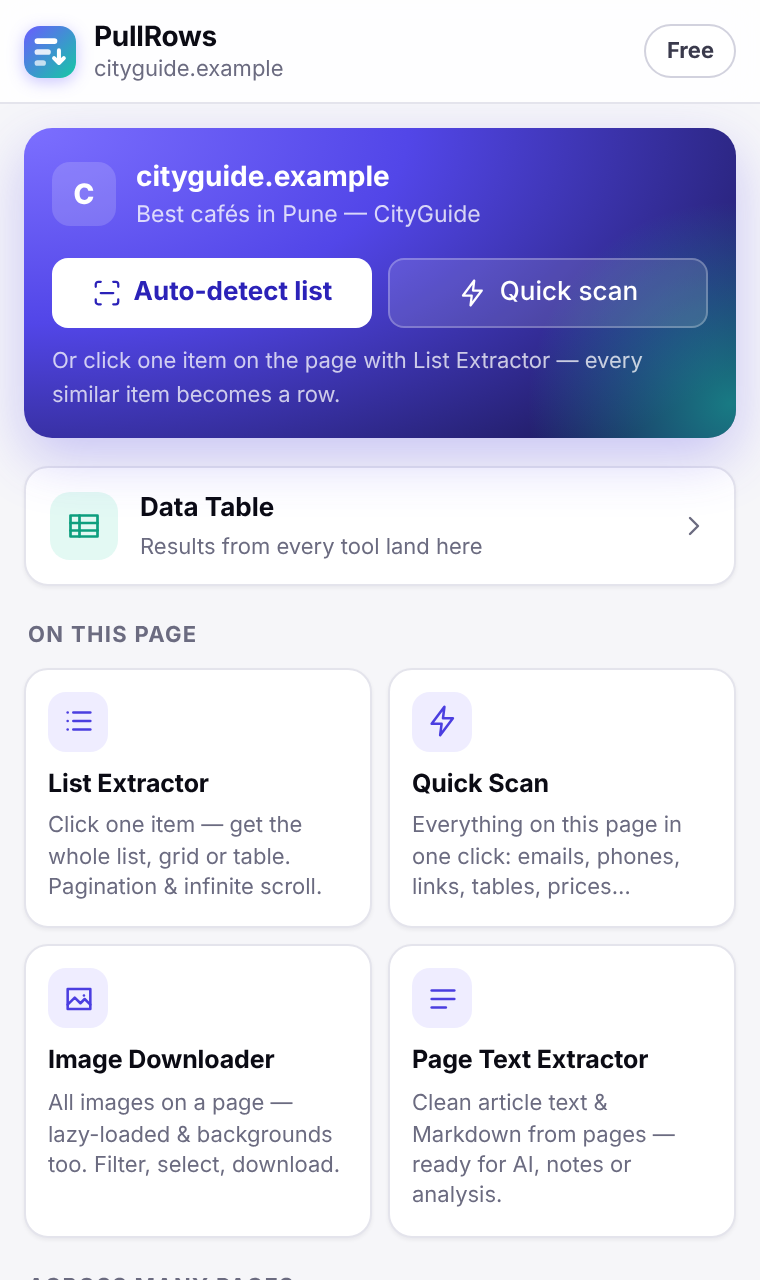
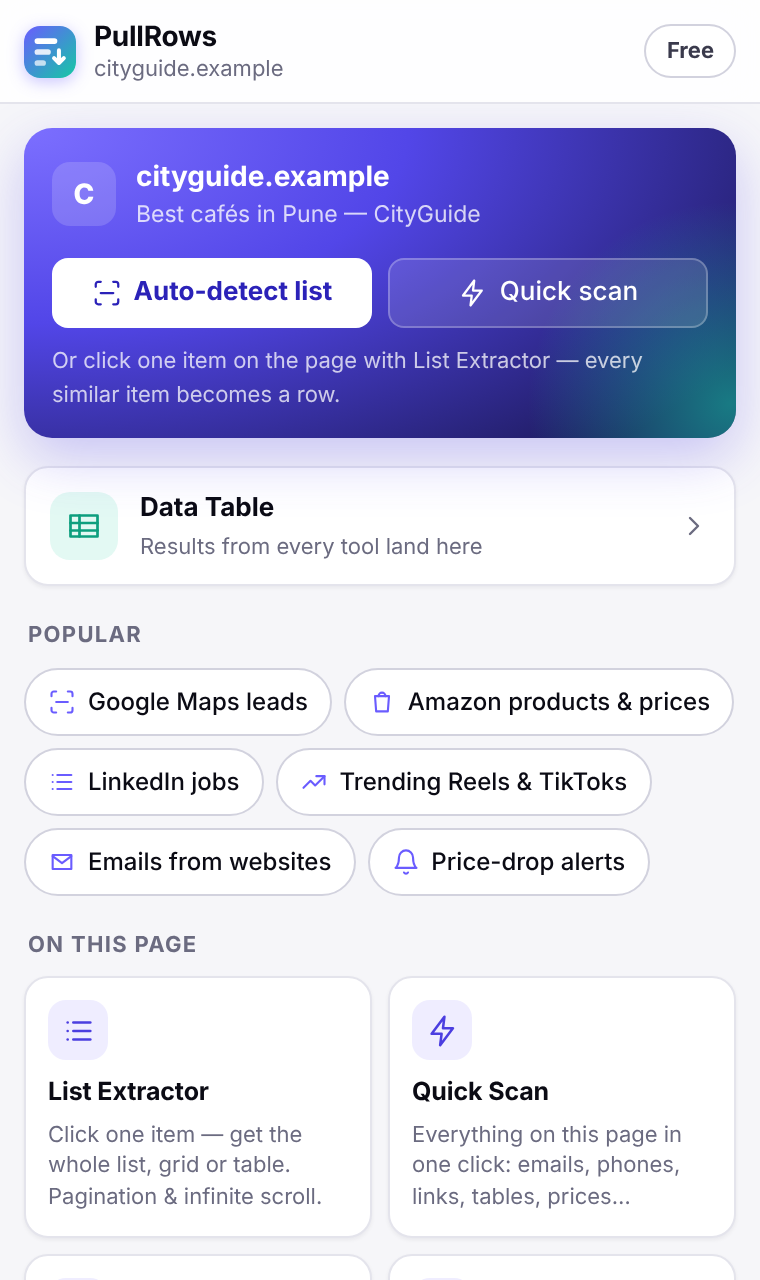
Popular one-tap jobs on the home screen; store listing lists monitors, Sheets, enrichment, chat screenshots
Claude-Session: https://claude.ai/code/session_018Q7rWZnfrrUrQjosjkLTR4

diff --git a/sidepanel/app.js b/sidepanel/app.js
@@ -101,6 +101,29 @@ export function go(id, opts = {}) {
 
 let pageInfo = { host: '', title: '', url: '' };
 
+// The jobs people use scrapers for most, one tap each. Site searches open in the current tab and
+// then auto-detect the list (the site presets name the columns).
+const POPULAR = [
+  { label: 'Google Maps leads', icon: 'scan', ask: 'What and where?', example: 'dentists in Austin', url: (q) => `https://www.google.com/maps/search/${encodeURIComponent(q)}` },
+  { label: 'Amazon products & prices', icon: 'bag', ask: 'Search Amazon for', example: 'wireless earbuds', url: (q) => `https://www.amazon.com/s?k=${encodeURIComponent(q)}` },
+  { label: 'LinkedIn jobs', icon: 'list', ask: 'Job title and place', example: 'product designer remote', url: (q) => `https://www.linkedin.com/jobs/search/?keywords=${encodeURIComponent(q)}` },
+  { label: 'Trending Reels & TikToks', icon: 'trend', go: 'trends' },
+  { label: 'Emails from websites', icon: 'mail', go: 'email' },
+  { label: 'Price-drop alerts', icon: 'bell', go: 'monitors' },
+];
+
+async function startPopular(p) {
+  if (p.go) { go(p.go); return; }
+  const { formDialog } = await import('./ui.js');
+  const res = await formDialog({ title: p.label, fields: [{ name: 'q', label: p.ask, placeholder: `e.g. ${p.example}` }], submit: 'Open & extract' });
+  if (!res?.q?.trim()) return;
+  const tab = await getActiveTab();
+  toast('Opening the page…', '', true);
+  await navigate(tab.id, p.url(res.q.trim()));
+  await new Promise((r) => setTimeout(r, 1500));
+  go('list', { autoDetect: true });
+}
+
 // One-time, reward-free review request after the user has had a few successful runs.
 const reviewSlot = h('div', { id: 'review-slot' });
 async function renderReview() {
@@ -145,6 +168,8 @@ function renderHome() {
         h('span', { class: 'muted small block ellipsis' }, d ? `${d.title || d.source}` : 'Results from every tool land here')),
       d ? h('span', { class: 'count-pill' }, plural(rows, 'row')) : null,
       h('span', { class: 'chev' }, icon('chevron', { size: 16 }))),
+    h('div', { class: 'section-label' }, 'Popular'),
+    h('div', { class: 'popular' }, POPULAR.map((p) => h('button', { type: 'button', class: 'pop', onclick: () => startPopular(p) }, icon(p.icon, { size: 14 }), p.label))),
     GROUPS.map((g) => [
       h('div', { class: 'section-label' }, g.label),
       h('div', { class: 'tool-grid' }, g.ids.map((id) => toolCard(ALL[id]))),

diff --git a/website/changelog.html b/website/changelog.html
@@ -102,6 +102,7 @@
           <li><strong>Screenshots in the chat</strong>: page tools used through the Claude connector now return a small screenshot, so you see what was scraped right in Claude — on desktop or your phone.</li>
           <li><strong>Ask Claude to watch a page</strong>: new <code>monitor_create</code> and <code>monitors_list</code> tools — “tell me when anything on this page gets cheaper”.</li>
           <li><strong>Google Sheets</strong>: send the Data Table to your own Google Sheet in one click (one-minute setup, no Google sign-in in the extension). Pro auto-syncs monitor changes.</li>
+          <li><strong>Popular jobs in one tap</strong> on the home screen: Google Maps leads, Amazon products and prices, LinkedIn jobs, trending Reels and TikToks, emails from websites, price-drop alerts.</li>
           <li><strong>AI enrichment</strong> (Pro): add industry, company size, B2B/B2C and a 0–100 lead score with the reason, or sentiment, summaries, name splitting and translation — one click on any table.</li>
         </ul>
       </div>

diff --git a/sidepanel/sidepanel.css b/sidepanel/sidepanel.css
@@ -397,3 +397,9 @@ tbody tr:nth-child(even) { background: color-mix(in srgb, var(--surface-2) 45%, 
 .connect-steps li::before { content: counter(cs); grid-row: span 3; width: 20px; height: 20px; border-radius: 50%; display: grid; place-items: center; background: var(--accent); color: #fff; font-size: 11px; font-weight: 700; }
 .connect-steps li > * { grid-column: 2; }
 .connect-steps code { font-size: 10.5px; }
+
+/* Popular one-tap jobs on the home screen */
+.popular { display: flex; flex-wrap: wrap; gap: 6px; }
+.pop { display: inline-flex; align-items: center; gap: 6px; padding: 7px 11px; border: 1px solid var(--border-strong); border-radius: 999px; background: var(--surface); color: var(--text, inherit); font: inherit; font-size: 12px; font-weight: 550; cursor: pointer; transition: border-color .15s, background .15s; }
+.pop:hover { border-color: var(--accent); background: var(--accent-soft); color: var(--accent-ink); }
+.pop .ico { color: var(--accent); }

diff --git a/onboarding/welcome.html b/onboarding/welcome.html
@@ -46,7 +46,11 @@
       </article>
       <article>
         <h3>Your data stays here</h3>
-        <p>Results live in this browser. No account, no analytics. Nothing leaves your machine unless you turn on AI or the Claude connector.</p>
+        <p>Results live in this browser. No account, no analytics. Nothing leaves your machine unless you turn on AI, Google Sheets or the Claude connector.</p>
+      </article>
+      <article>
+        <h3>Price-drop alerts</h3>
+        <p>Save a recipe, click Monitor, and PullRows re-checks the page on a schedule and tells you what got cheaper or what’s new.</p>
       </article>
       <article>
         <h3>Let Claude drive it</h3>

diff --git a/store/STORE_FORM.md b/store/STORE_FORM.md
@@ -14,7 +14,7 @@ Every image named below is in this kit's `images/` folder.
 | Field | Paste this |
 |---|---|
 | Title | *(read from the manifest)* PullRows – Web Scraper & Data Extractor |
-| Summary | *(read from the manifest)* Turn any website into rows: lists, pages, emails, socials, images, Shopify, sitemaps. Export CSV/Excel. Works with Claude. |
+| Summary | *(read from the manifest)* Scrape any site into rows: lists, Maps leads, emails, prices, reels. Price-drop alerts, Sheets & Excel export. Works with Claude. |
 | Category | **Tools** |
 | Language | **English** |
 | Store icon | `images/icon-128.png` |
@@ -57,15 +57,24 @@ ELEVEN TOOLS IN ONE PANEL
 AN EDITABLE DATA TABLE
 Rename, sort, edit, merge columns, dedupe and clean. You can add an AI column ("classify the industry") or ask questions about the data. Export to CSV or copy to any spreadsheet; Excel and JSON export are part of Pro. Save any setup as a recipe and re-run it in one click.
 
+WATCH PAGES: PRICE-DROP AND NEW-LISTING ALERTS
+Turn any saved recipe into a monitor. PullRows re-runs it every hour, day or week in the background and sends a Chrome notification when something changes: new rows, rows that are gone, changed values or price drops (with the % change). Every run is kept in History with a "Changes" sheet. Free: 1 daily monitor. Pro: unlimited, hourly.
+
+GOOGLE SHEETS AND AI ENRICHMENT
+Send any table to your own Google Sheet in one click (one-minute setup, no Google sign-in inside the extension); Pro syncs monitor changes automatically. With Pro, Enrich adds industry, company size, B2B/B2C and a 0–100 lead score with the reason, or sentiment, summaries, name splitting and translation (uses your own Anthropic API key).
+
+POPULAR JOBS IN ONE TAP
+Google Maps leads, Amazon products and prices, LinkedIn jobs, trending Reels and TikToks, emails from a list of websites, and price-drop alerts: start any of them from the home screen.
+
 WORKS WITH CLAUDE
-Turn on the Claude connector and add your private link to Claude as a custom connector. Then ask: "find every café in Pune rated above 4.5 and export it." Claude runs PullRows in your own browser, with your logins, and the results land in your Data Table.
+Turn on the Claude connector and add your private link to Claude as a custom connector. Then ask: "find every café in Pune rated above 4.5 and export it." Claude runs PullRows in your own browser, with your logins, shows you screenshots of the pages it scraped right in the chat, and the results land in your Data Table. It works from the Claude app on your phone too, while your computer's Chrome is open. You can also ask Claude to watch a page and alert you when prices drop.
 The connector is off by default and read-only unless you allow actions. Email, banking, password-manager and local-network sites are always blocked.
 
 PRIVATE BY DESIGN
 Your scraped data stays in your browser. No analytics, no tracking, no account.
 
 FREE FOREVER, PRO WHEN YOU NEED MORE
-The free plan includes every tool and unlimited CSV export, with sensible per-run limits. You can try Pro free for 3 days, with no card needed. Pro ($10/month, or $20 once for lifetime) removes all limits and adds Excel and JSON export, unlimited recipes and unlimited Claude connector calls.
+The free plan includes every tool and unlimited CSV export, with sensible per-run limits. You can try Pro free for 3 days, with no card needed. Pro ($10/month, or $20 once for lifetime) removes all limits and adds Excel and JSON export, unlimited hourly monitors, Google Sheets auto-sync, AI lead enrichment, video scripts in Trend Finder, unlimited recipes and unlimited Claude connector calls.
 
 Use PullRows responsibly: respect each website's terms and privacy laws when collecting data.
 ---

diff --git a/store/STORE_LISTING.md b/store/STORE_LISTING.md
@@ -7,7 +7,7 @@ Upload `dist/pullrows-1.4.1.zip`, which you build with `npm run package`. Images
 **Name** (from manifest): PullRows – Web Scraper & Data Extractor
 
 **Summary** (132 chars max, from manifest):
-Turn any website into rows: lists, pages, emails, socials, images, Shopify, sitemaps. Export CSV/Excel. Works with Claude.
+Scrape any site into rows: lists, Maps leads, emails, prices, reels. Price-drop alerts, Sheets & Excel export. Works with Claude.
 
 **Category:** Tools. **Language:** English.
 
@@ -40,6 +40,15 @@ ELEVEN TOOLS IN ONE PANEL
 AN EDITABLE DATA TABLE
 Rename, sort, edit, merge columns, dedupe and clean. You can also add an AI column ("classify the industry") or ask questions about the data. Export to CSV or copy to any spreadsheet; Excel and JSON export are part of Pro. Save any setup as a recipe and re-run it in one click.
 
+WATCH PAGES: PRICE-DROP AND NEW-LISTING ALERTS
+Turn any saved recipe into a monitor. PullRows re-runs it every hour, day or week in the background and sends a Chrome notification when something changes: new rows, rows that are gone, changed values or price drops (with the % change). Every run is kept in History with a "Changes" sheet. Free: 1 daily monitor. Pro: unlimited, hourly.
+
+GOOGLE SHEETS AND AI ENRICHMENT
+Send any table to your own Google Sheet in one click (one-minute setup, no Google sign-in inside the extension); Pro syncs monitor changes automatically. With Pro, Enrich adds industry, company size, B2B/B2C and a 0–100 lead score with the reason, or sentiment, summaries, name splitting and translation (uses your own Anthropic API key).
+
+POPULAR JOBS IN ONE TAP
+Google Maps leads, Amazon products and prices, LinkedIn jobs, trending Reels and TikToks, emails from a list of websites, and price-drop alerts: start any of them from the home screen.
+
 WORKS WITH CLAUDE
 Turn on the Claude connector and add your private link to Claude as a custom connector. You can then ask Claude to "find every café in Pune with a rating above 4.5 and export it". Claude runs PullRows in your own browser, with your logins, and the results land in your Data Table. The connector is off by default and read-only unless you allow actions. Email, banking, password-manager and local-network sites are always blocked.
 
@@ -47,7 +56,7 @@ PRIVATE BY DESIGN
 Your scraped data stays in your browser. PullRows has no analytics and no tracking, and needs no account.
 
 FREE FOREVER, PRO WHEN YOU NEED MORE
-The free plan includes every tool and unlimited CSV export, with sensible per-run limits. Try Pro free for 3 days, no card needed. Pro ($10/month, or $20 once for lifetime) removes all limits and adds Excel and JSON export, unlimited recipes and unlimited Claude connector calls.
+The free plan includes every tool and unlimited CSV export, with sensible per-run limits. Try Pro free for 3 days, no card needed. Pro ($10/month, or $20 once for lifetime) removes all limits and adds Excel and JSON export, unlimited hourly monitors, Google Sheets auto-sync, AI lead enrichment, video scripts in Trend Finder, unlimited recipes and unlimited Claude connector calls.
 
 Use PullRows responsibly: respect each website's terms and privacy laws when collecting data.
 ```
